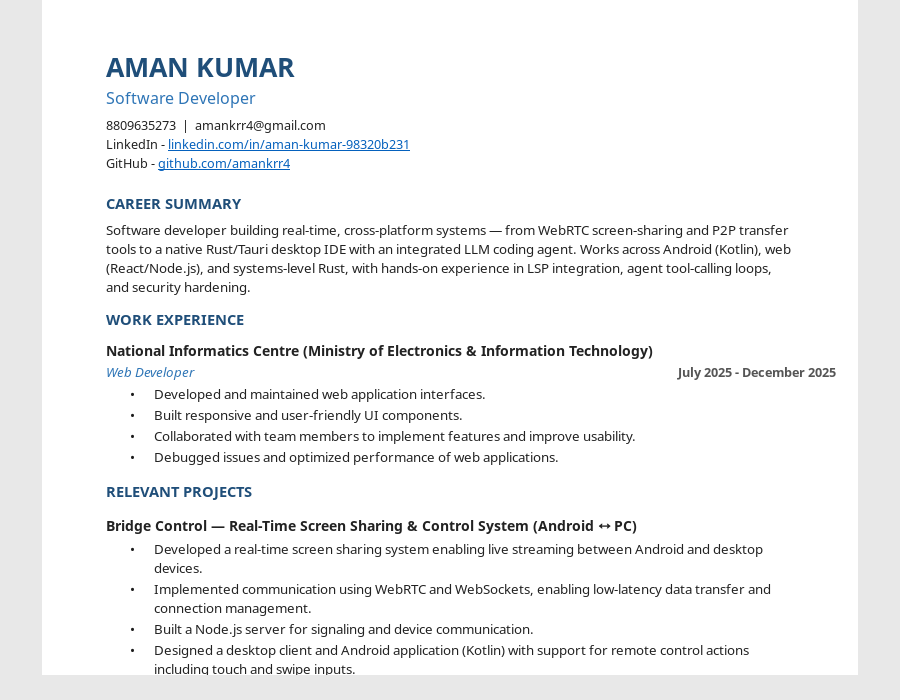
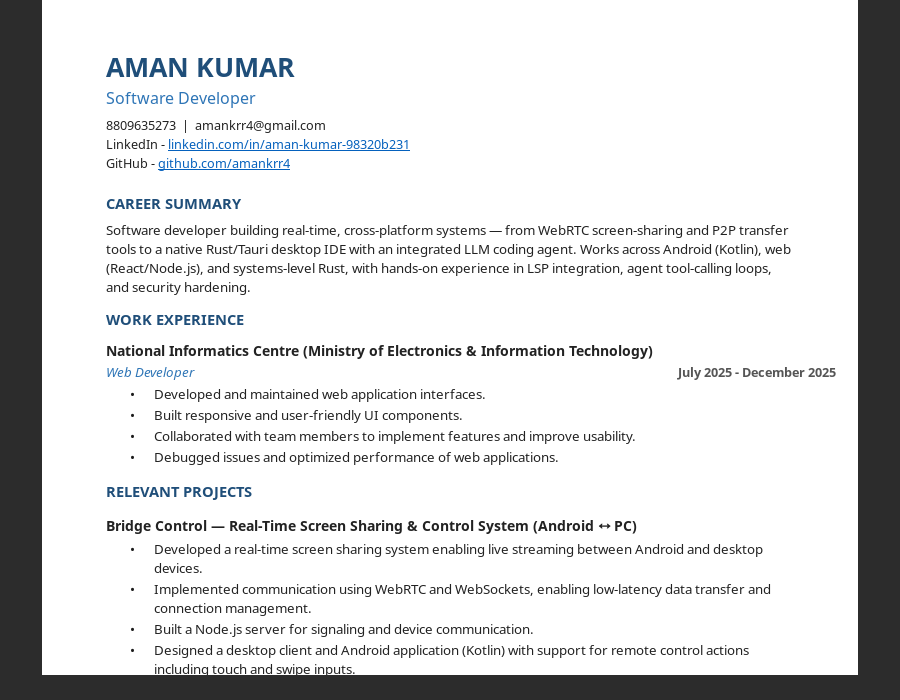
Blend gutters with the titlebar
Use the sampled titlebar colour for the non-page chrome so the dark
gutters and top border form one frame around the white page.

Changed region(s): [[0.0, 0.0, 1.0, 1.0]]

diff --git a/src/ui.rs b/src/ui.rs
@@ -72,11 +72,13 @@ fn install_css() {
         ".docx-banner { padding: 6px 8px; background-color: alpha(@theme_selected_bg_color, 0.18); }\n\
          .docx-status { padding: 4px 10px; font-size: 0.9em; opacity: 0.75; }\n\
          .docx-empty-title { font-size: 1.2em; }\n\
-         .docx-body { background-color: #e8e8e8; }\n\
+         .docx-body { background-color: #2c2c2c; color: #f2f2f2; }\n\
          .docx-page { background-color: #ffffff; }\n\
          .docx-text { background-color: #ffffff; color: #1a1a1a; }\n\
-         window { background-color: #f6f6f6; color: #1a1a1a; }\n\
-         headerbar { background-color: #f6f6f6; color: #1a1a1a; }\n",
+         .docx-status { color: #d0d0d0; }\n\
+         .docx-banner { color: #f2f2f2; }\n\
+         window { background-color: #2c2c2c; color: #f2f2f2; }\n\
+         headerbar { background-color: #2c2c2c; color: #f2f2f2; }\n",
     );
     gtk::style_context_add_provider_for_display(
         &display,

diff --git a/DECISIONS.md b/DECISIONS.md
@@ -28,4 +28,6 @@ One line per non-obvious decision. The build specification is background; this f
 
 - **Local-only artifact baseline.** The checked-out local `.deb` was built on Ubuntu 24.04 (glibc 2.39/GTK 4.14) because no 22.04 container/sudo was available. The release workflow uses `ubuntu:22.04` for the older glibc/GTK baseline. The crate compiles with the `v4_6` feature, but the 22.04 runtime was not exercised locally.
 
-- **Centred white page column.** The text view is wrapped in a responsive white page box capped at 816 px × zoom, centred over grey gutters. On narrow windows the page shrinks to the available width; a 200 ms resize poll adjusts the page width. Page padding is 64 px left/right and 48 px top/bottom, and paragraph margins are applied relative to that padding.
+- **Centred white page column.** The text view is wrapped in a responsive white page box capped at 816 px × zoom, centred over dark gutters. On narrow windows the page shrinks to the available width; a 200 ms resize poll adjusts the page width. Page padding is 64 px left/right and 48 px top/bottom, and paragraph margins are applied relative to that padding.
+
+- **Gutters match the titlebar.** The non-page chrome uses `#2c2c2c`, sampled from the system titlebar, so the dark gutters blend with the top border while the page stays white.

diff --git a/README.md b/README.md
@@ -25,7 +25,7 @@ A small, read-only `.docx` viewer for Ubuntu. It opens Word documents as readabl
 - No macros, OLE activation, external templates or external image loading.
 - No `.doc`, `.odt` or `.rtf` support. Old/password-protected documents get a friendly message.
 - No pixel-faithful pagination, headers/footers per page, columns, comments pane, WordArt, charts or SmartArt. Unsupported content shows a placeholder or warning.
-- The document is shown in a centred white page column with grey gutters; this is a reading layout, not a page-layout clone.
+- The document is shown in a centred white page column with dark gutters; this is a reading layout, not a page-layout clone.
 
 ## Install
 
